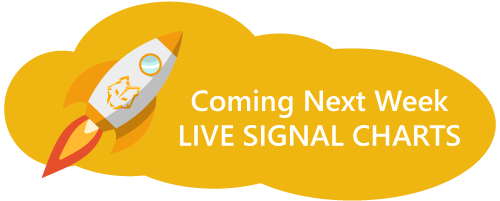
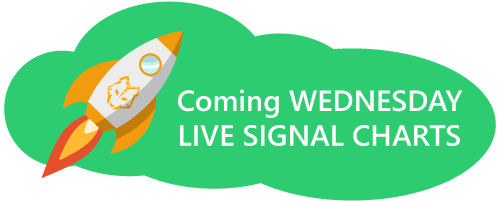
Updated Live Signal Service popup

diff --git a/src/App.js b/src/App.js
@@ -291,8 +291,8 @@ class App extends Component
         return {
             "Content-Type": "application/json",
             Accept: '*/*',
-            // Authorization: 'Bearer eyJ0eXAiOiJKV1QiLCJhbGciOiJIUzI1NiJ9.eyJzdWIiOiJkZW1vIiwiaWF0IjoxNjA4NDM1NTg3fQ.gwJRakOUz1uWBpD8_VOphebSwyPUm_t9D4vJOB5b2Kg'
-            Authorization: 'Bearer eyJ0eXAiOiJKV1QiLCJhbGciOiJIUzI1NiJ9.eyJzdWIiOiJkZW1vIiwiaWF0IjoxNjE2NTY1MjA0fQ.EuggHOjFvpkNJOTTO3t6KU5wnHnHTsntMoLvbYiRZDg'
+            Authorization: 'Bearer eyJ0eXAiOiJKV1QiLCJhbGciOiJIUzI1NiJ9.eyJzdWIiOiJkZW1vIiwiaWF0IjoxNjA4NDM1NTg3fQ.gwJRakOUz1uWBpD8_VOphebSwyPUm_t9D4vJOB5b2Kg'
+            // Authorization: 'Bearer eyJ0eXAiOiJKV1QiLCJhbGciOiJIUzI1NiJ9.eyJzdWIiOiJkZW1vIiwiaWF0IjoxNjE2NTY1MjA0fQ.EuggHOjFvpkNJOTTO3t6KU5wnHnHTsntMoLvbYiRZDg'
         };
     }
 

diff --git a/src/components/strategyapp/popups/LiveSignalService.jsx b/src/components/strategyapp/popups/LiveSignalService.jsx
@@ -18,7 +18,7 @@ class LiveSignalService extends Component
                                 </div>
                             </div>
                             <span className='beta-unavailable message'>
-                                Watch the Prison Paycheck setups in real time with the <span id="sp_bold">LIVE Signal Charts</span> available on this page early next week.
+                                Watch the Prison Paycheck setups in <span id="sp_bold">REAL TIME</span> with the <span id="sp_bold">LIVE Signal Charts</span> available <br/><span id="sp_bold">RIGHT HERE on WEDNESDAY!</span>
                             </span>
                         </div>
                     </div>
